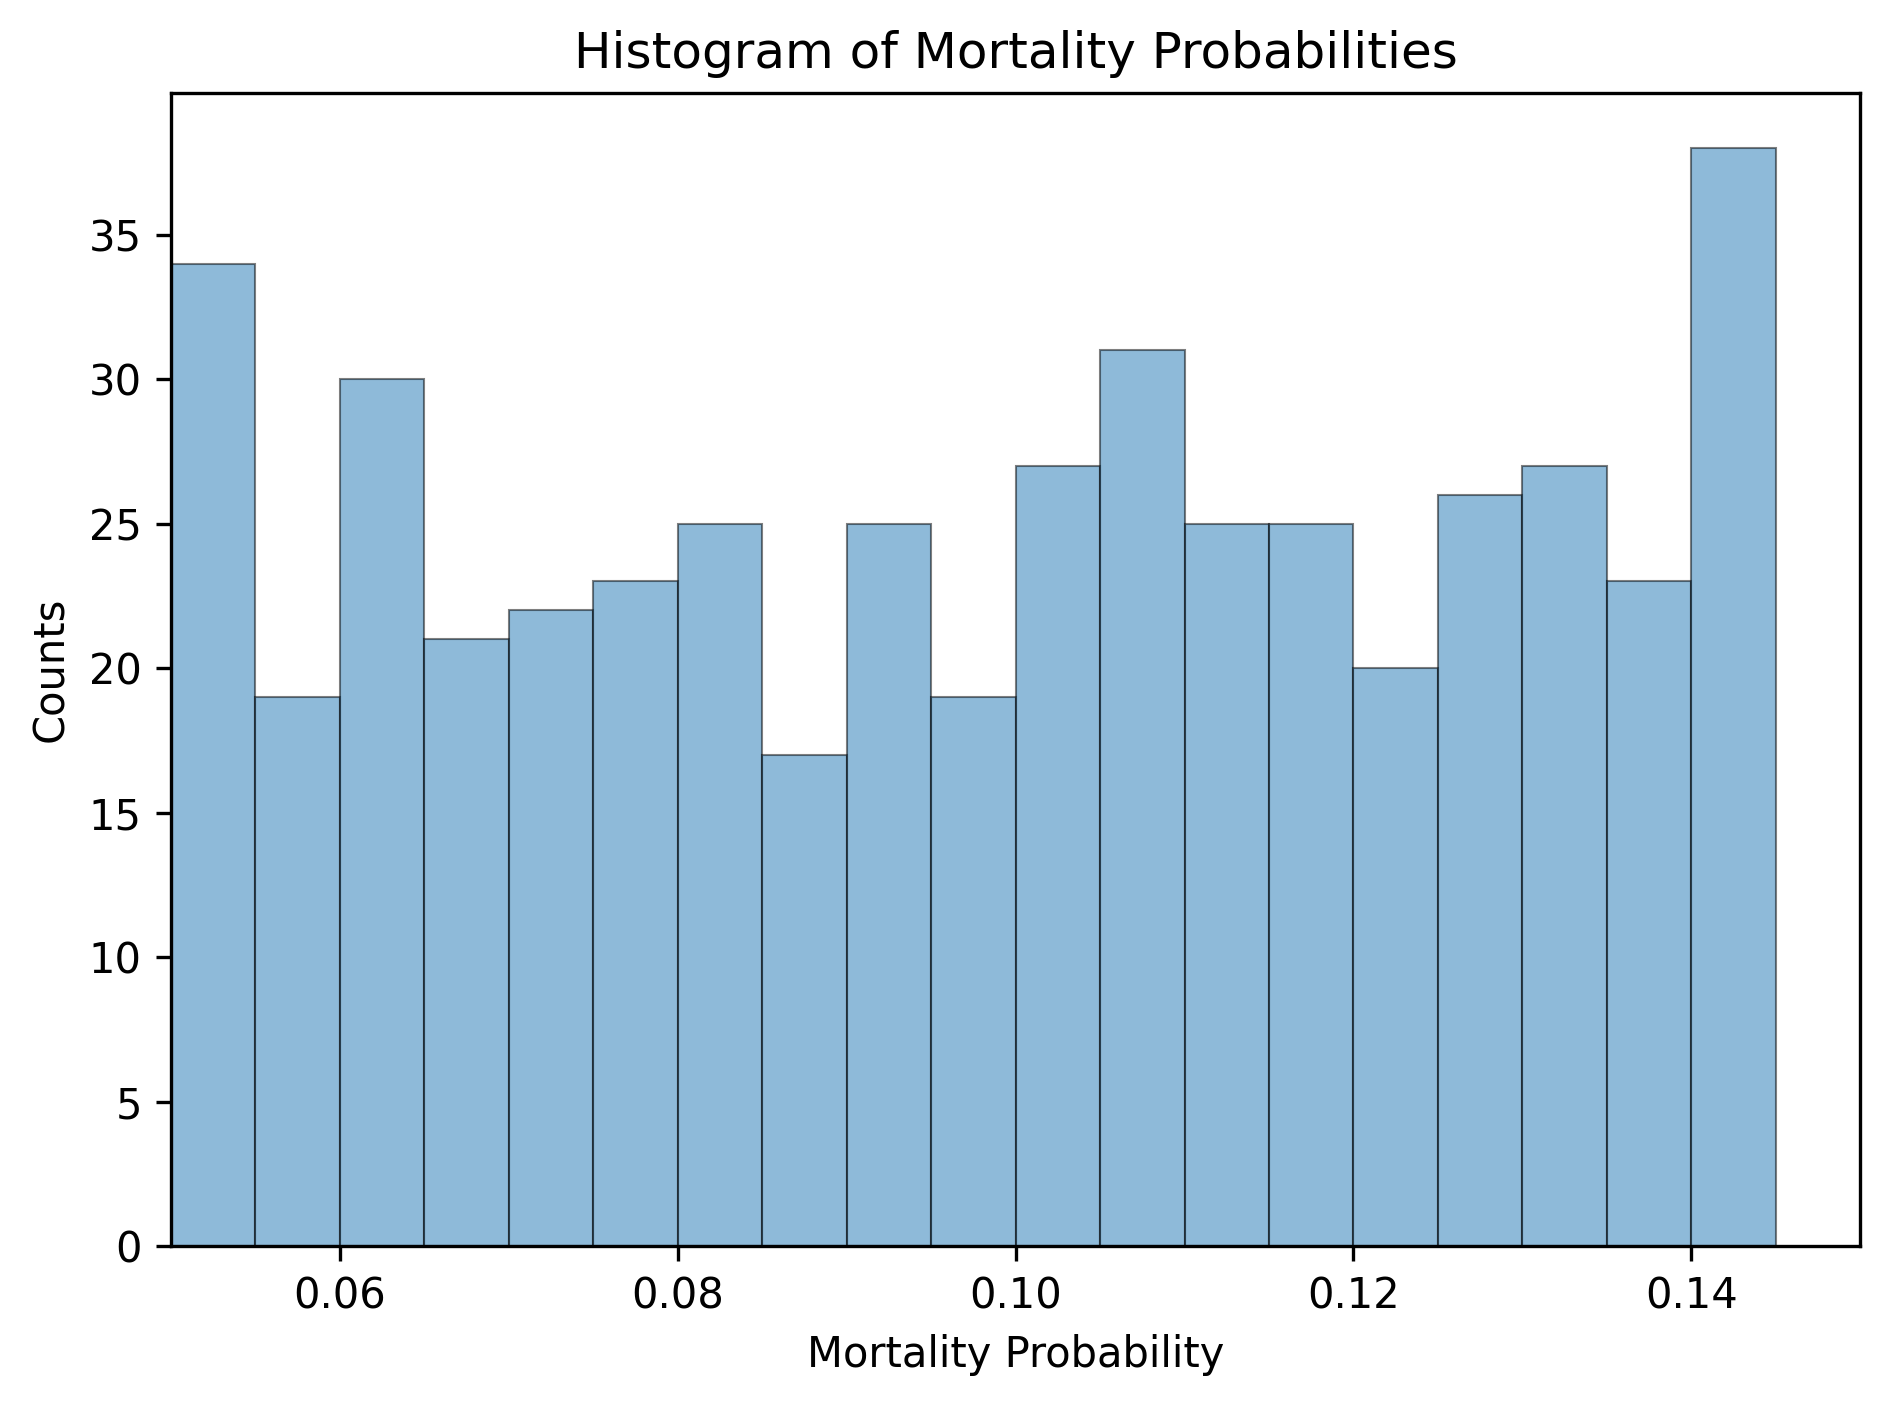
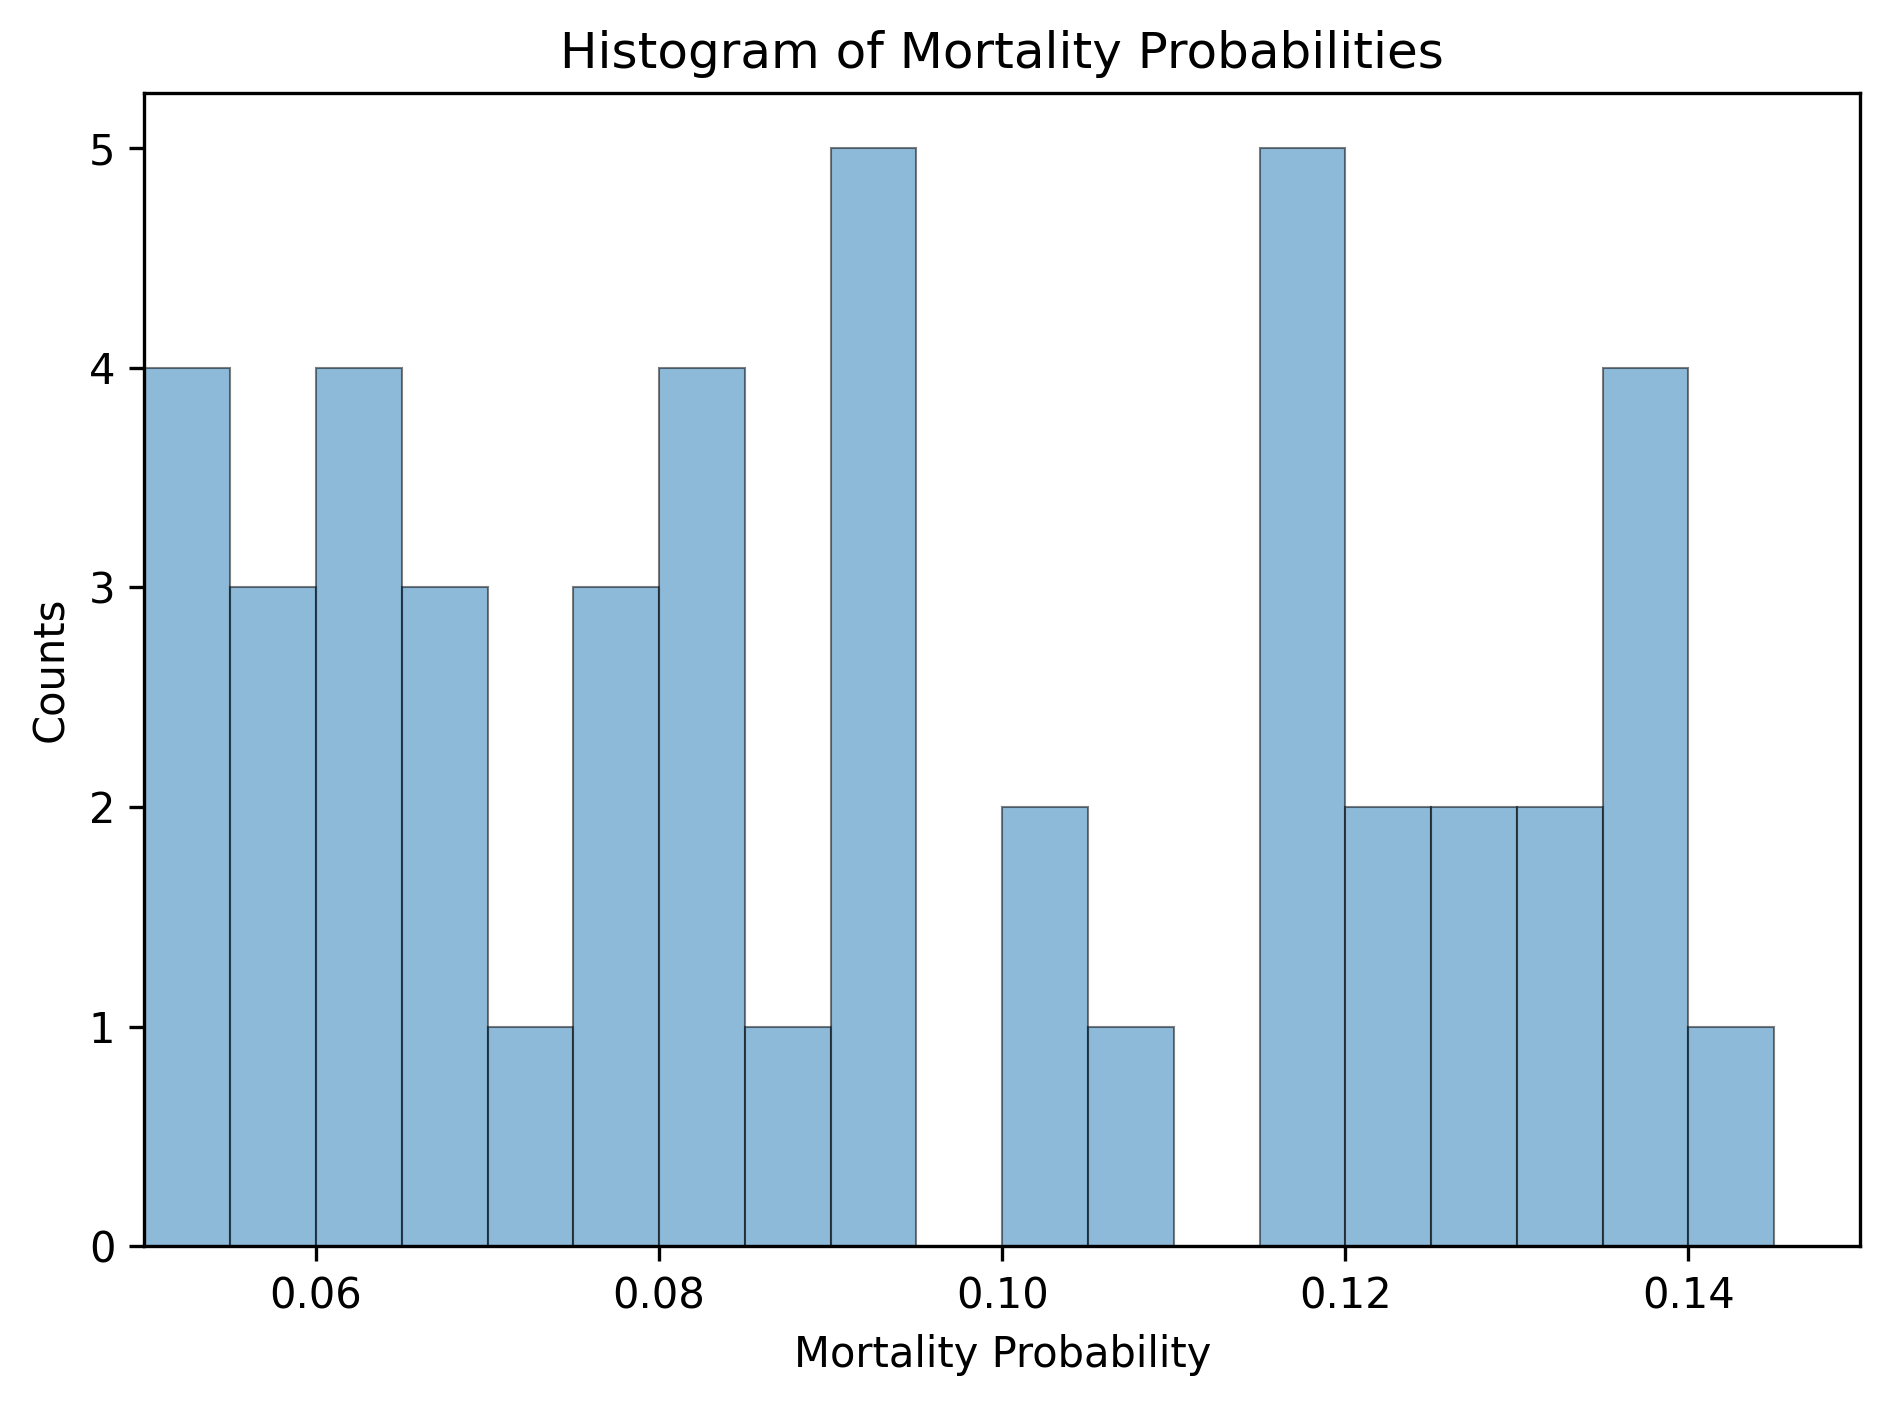
random sampling implemented

diff --git a/CalibrationClasses.py b/CalibrationClasses.py
@@ -1,13 +1,11 @@
 from enum import Enum
 
-import deampy.in_out_functions as IO
-import deampy.statistics as stat
-import numpy as np
 import scipy.stats as stats
-from numpy.random import RandomState
 
 import CalibrationSettings as Sets
 import MultiSurvivalModelClasses as SurvivalCls
+from SurvivalModelClasses import Cohort
+from deampy.calibration import CalibrationRandomSampling
 
 
 class CalibrationColIndex(Enum):
@@ -17,105 +15,74 @@ class CalibrationColIndex(Enum):
     MORT_PROB = 2   # mortality probability
 
 
+def log_likelihood(thetas, seed):
+    """Compute the log-likelihood of observed data given theta."""
+
+    cohort = Cohort(id=seed, pop_size=Sets.SIM_POP_SIZE, mortality_prob=thetas[0])
+    cohort.simulate(n_time_steps=Sets.TIME_STEPS)  # Simulate the cohort
+
+    # get the average survival time for this cohort
+    mean = cohort.cohortOutcomes.meanSurvivalTime
+
+    # construct a normal likelihood
+    # with mean calculated from the simulated data and standard deviation from the clinical study.
+    # evaluate this pdf (probability density function) at the mean reported in the clinical study.
+    log_l = stats.norm.logpdf(
+        x=Sets.OBS_MEAN,
+        loc=mean,
+        scale=Sets.OBS_STDEV)
+
+    return log_l
+
 class Calibration:
     def __init__(self):
         """ initializes the calibration object"""
 
-        self.cohortIDs = []             # IDs of cohorts to simulate
-        self.mortalitySamples = []      # values of mortality probability at which the posterior should be sampled
-        self.normalizedWeights = []     # normalized likelihood weights (sums to 1)
-        self.mortalityResamples = []  # resampled values for constructing posterior estimate and interval
+        self.calib = CalibrationRandomSampling(prior_ranges=Sets.PRIOR_RANGE)
 
     def sample_posterior(self, n_samples):
         """ sample the posterior distribution of the mortality probability,
          :param n_samples: number of samples from the posterior distribution
          """
 
-        # random number generator
-        rng = RandomState(1)
+        self.calib.run(log_likelihood_func=log_likelihood, num_samples=n_samples)
+        self.calib.save_samples(
+            file_name="output/samples.csv",
+            parameter_names=['Mortality Probability'])
+        self.calib.save_posterior(
+            file_name="output/posterior.csv",
+            n_resample=n_samples, parameter_names=['Mortality Probability'], significant_digits=3)
 
-        # cohort ids
-        self.cohortIDs = range(n_samples)
+    def plot_posterior(self, n_resamples):
+        """ plot the posterior distribution of the mortality probability """
 
-        # find values of mortality probability at which the posterior should be evaluated
-        self.mortalitySamples = rng.uniform(
-            low=Sets.PRIOR_L,
-            high=Sets.PRIOR_U,
-            size=Sets.PRIOR_N)
+        self.calib.read_samples(file_name="output/samples.csv")
+        self.calib.plot_posterior(
+            n_resample=n_resamples, figsize=(5, 5), parameter_names=['Mortality Probability'],
+            file_name='figs/posterior_plot.png')
 
-        # create a multi cohort
-        multi_cohort = SurvivalCls.MultiCohort(
-            ids=self.cohortIDs,
-            mortality_probs=self.mortalitySamples,
-            pop_sizes=[Sets.SIM_POP_SIZE] * Sets.PRIOR_N
-        )
 
-        # simulate the multi cohort
-        multi_cohort.simulate(n_time_steps=Sets.TIME_STEPS)
-
-        # calculate the likelihood of each simulated cohort
-        weights = []
-        for cohort_id in self.cohortIDs:
-
-            # get the average survival time for this cohort
-            mean = multi_cohort.multiCohortOutcomes.meanSurvivalTimes[cohort_id]
-
-            # construct a normal likelihood
-            # with mean calculated from the simulated data and standard deviation from the clinical study.
-            # evaluate this pdf (probability density function) at the mean reported in the clinical study.
-            weight = stats.norm.pdf(
-                x=Sets.OBS_MEAN,
-                loc=mean,
-                scale=Sets.OBS_STDEV)
-
-            # store the weight
-            weights.append(weight)
-
-        # normalize the likelihood weights
-        sum_weights = sum(weights)
-        self.normalizedWeights = np.divide(weights, sum_weights)
-
-        # produce the list to report the results
-        csv_rows = \
-            [['Cohort ID', 'Likelihood Weights', 'Mortality Prob']]  # list containing the calibration results
-        for i in range(len(self.mortalitySamples)):
-            csv_rows.append(
-                [self.cohortIDs[i], self.normalizedWeights[i], self.mortalitySamples[i]])
-
-        # write the calibration result into a csv file
-        IO.write_csv(
-            file_name='CalibrationResults.csv',
-            rows=csv_rows)
-
-    def get_effective_sample_size(self):
-        """
-        :returns: the effective sample size
-        """
-        return 1 / np.sum(self.normalizedWeights ** 2)
+    # def get_effective_sample_size(self):
+    #     """
+    #     :returns: the effective sample size
+    #     """
+    #     return 1 / np.sum(self.normalizedWeights ** 2)
 
 
 class CalibratedModel:
     """ to run the calibrated survival model """
 
-    def __init__(self, csv_file_name, drug_effectiveness_ratio=1):
+    def __init__(self, drug_effectiveness_ratio=1):
         """ extracts seeds, mortality probabilities and the associated likelihood from
         the csv file where the calibration results are stored
-        :param csv_file_name: name of the csv file where the calibrated results are stored
         :param drug_effectiveness_ratio: effectiveness of the drug
         """
 
-        # read the columns of the csv files containing the calibration results
-        cols = IO.read_csv_cols(
-            file_name=csv_file_name,
-            n_cols=3,
-            if_ignore_first_row=True,
-            if_convert_float=True)
+        self.drugEffRatio = drug_effectiveness_ratio
 
-        # store likelihood weights, cohort IDs and sampled mortality probabilities
-        self.cohortIDs = cols[CalibrationColIndex.ID.value].astype(int)
-        self.weights = cols[CalibrationColIndex.W.value]
-        self.mortalityProbs = cols[CalibrationColIndex.MORT_PROB.value] * drug_effectiveness_ratio
-        self.resampledMortalityProb = []
+        self.calib = CalibrationRandomSampling(prior_ranges=Sets.PRIOR_RANGE)
+        self.calib.read_samples(file_name="output/samples.csv")
+
         self.multiCohorts = None  # multi-cohort
 
     def simulate(self, num_of_simulated_cohorts, cohort_size, time_steps):
@@ -125,28 +92,13 @@ class CalibratedModel:
         :param time_steps: simulation length
         """
 
-        # random number generator
-        rng = RandomState(1)
-
-        # resample cohort IDs and mortality probabilities based on their likelihood weights
-        # sample (with replacement) from indices [0, 1, 2, ..., number of weights] based on the likelihood weights
-        sampled_row_indices = rng.choice(
-            a=range(0, len(self.weights)),
-            size=num_of_simulated_cohorts,
-            replace=True,
-            p=self.weights)
-
-        # use the sampled indices to populate the list of cohort IDs and mortality probabilities
-        resampled_ids = []
-        for i in sampled_row_indices:
-            resampled_ids.append(self.cohortIDs[i])
-            self.resampledMortalityProb.append(self.mortalityProbs[i])
+        self.calib.resample(n_resample=num_of_simulated_cohorts)
 
         # simulate the desired number of cohorts
         self.multiCohorts = SurvivalCls.MultiCohort(
-            ids=resampled_ids,
+            ids=self.calib.resampledSeeds,
             pop_sizes=[cohort_size] * num_of_simulated_cohorts,
-            mortality_probs=self.resampledMortalityProb)
+            mortality_probs=self.calib.resamples[0] * self.drugEffRatio)
 
         # simulate all cohorts
         self.multiCohorts.simulate(time_steps)
@@ -162,16 +114,3 @@ class CalibratedModel:
 
         return mean, proj_interval
 
-    def get_mortality_estimate_credible_interval(self, alpha):
-        """
-        :param alpha: the significance level
-        :returns tuple (mean, [lower, upper]) of the posterior distribution"""
-
-        # calculate the credible interval
-        sum_stat = stat.SummaryStat(name='Posterior samples',
-                                    data=self.resampledMortalityProb)
-
-        estimate = sum_stat.get_mean()  # estimated mortality probability
-        credible_interval = sum_stat.get_PI(alpha=alpha)  # credible interval
-
-        return estimate, credible_interval

diff --git a/RunCalibratedModel.py b/RunCalibratedModel.py
@@ -1,11 +1,10 @@
+import CalibrationClasses as Cls
+import CalibrationSettings as Sets
 import deampy.plots.histogram as hist
 import deampy.plots.sample_paths as path
 
-import CalibrationClasses as Cls
-import CalibrationSettings as Sets
-
 # initialize a calibrated model
-calibrated_model = Cls.CalibratedModel(csv_file_name='CalibrationResults.csv')
+calibrated_model = Cls.CalibratedModel()
 # simulate the calibrated model
 calibrated_model.simulate(num_of_simulated_cohorts=Sets.NUM_SIM_COHORTS,
                           cohort_size=Sets.SIM_POP_SIZE,
@@ -31,19 +30,6 @@ hist.plot_histogram(
     bin_width=0.5,
     file_name='figs/calibrated/survival_times.png')
 
-# create the histogram of the resampled mortality probabilities
-hist.plot_histogram(
-    data=calibrated_model.resampledMortalityProb,
-    title='Histogram of Resampled Mortality Probabilities',
-    x_label='Mortality Probability',
-    y_label='Counts',
-    x_range=[Sets.PRIOR_L, Sets.PRIOR_U],
-    bin_width=0.005,
-    file_name='figs/calibrated/mortality_probs.png')
-
-# Estimate of mortality probability and the posterior interval
-print('Estimate of mortality probability ({:.{prec}%} credible interval):'.format(1 - Sets.ALPHA, prec=0),
-      calibrated_model.get_mortality_estimate_credible_interval(alpha=Sets.ALPHA))
 
 # report mean and projection interval
 print('Mean survival time and {:.{prec}%} projection interval:'.format(1 - Sets.ALPHA, prec=0),

diff --git a/RunUncalibratedModel.py b/RunUncalibratedModel.py
@@ -1,21 +1,21 @@
-import deampy.plots.histogram as hist
-import deampy.plots.sample_paths as path
 import numpy as np
 
 import CalibrationSettings as Sets
 import MultiSurvivalModelClasses as Cls
+import deampy.plots.histogram as hist
+import deampy.plots.sample_paths as path
 
 # find values of mortality probability at which the posterior should be evaluated
 np.random.seed(1)
 mortality_samples = np.random.uniform(
-    low=Sets.PRIOR_L,
-    high=Sets.PRIOR_U,
-    size=Sets.PRIOR_N)
+    low=Sets.PRIOR_RANGE[0],
+    high=Sets.PRIOR_RANGE[1],
+    size=Sets.N_SAMPLES)
 
 # create multiple cohorts
 multiCohort = Cls.MultiCohort(
-    ids=range(Sets.PRIOR_N),
-    pop_sizes=[Sets.SIM_POP_SIZE] * Sets.PRIOR_N,
+    ids=range(Sets.N_SAMPLES),
+    pop_sizes=[Sets.SIM_POP_SIZE] * Sets.N_SAMPLES,
     mortality_probs=mortality_samples  # [p1, p2, ....]
 )
 
@@ -48,7 +48,7 @@ hist.plot_histogram(
     title='Histogram of Mortality Probabilities',
     x_label='Mortality Probability',
     y_label='Counts',
-    x_range=[Sets.PRIOR_L, Sets.PRIOR_U],
+    x_range=Sets.PRIOR_RANGE,
     bin_width=0.005,
     file_name='figs/uncalibrated/mortality_probs.png')
 

diff --git a/RunCalibration.py b/RunCalibration.py
@@ -5,8 +5,10 @@ import CalibrationSettings as Sets
 calibration = Cls.Calibration()
 
 # sample the posterior of the mortality probability
-calibration.sample_posterior(n_samples=Sets.PRIOR_N)
+calibration.sample_posterior(n_samples=Sets.N_SAMPLES)
 
-# effective sample size
-txtEff = 'Effective sample size: {:.1f}'.format(calibration.get_effective_sample_size())
-print(txtEff)
+calibration.plot_posterior(n_resamples=Sets.N_SAMPLES)
+
+# # effective sample size
+# txtEff = 'Effective sample size: {:.1f}'.format(calibration.get_effective_sample_size())
+# print(txtEff)

diff --git a/CalibrationSettings.py b/CalibrationSettings.py
@@ -17,4 +17,5 @@ OBS_STDEV = OBS_HL / stat.t.ppf(1 - OBS_ALPHA / 2, OBS_N-1)
 
 # how to sample the posterior distribution of mortality probability
 # minimum, maximum and the number of samples for the mortality probability
-PRIOR_L, PRIOR_U, PRIOR_N = 0.05, 0.15, 500
+PRIOR_RANGE = [0.05, 0.15]
+N_SAMPLES = 50  # number of samples from the posterior distribution
